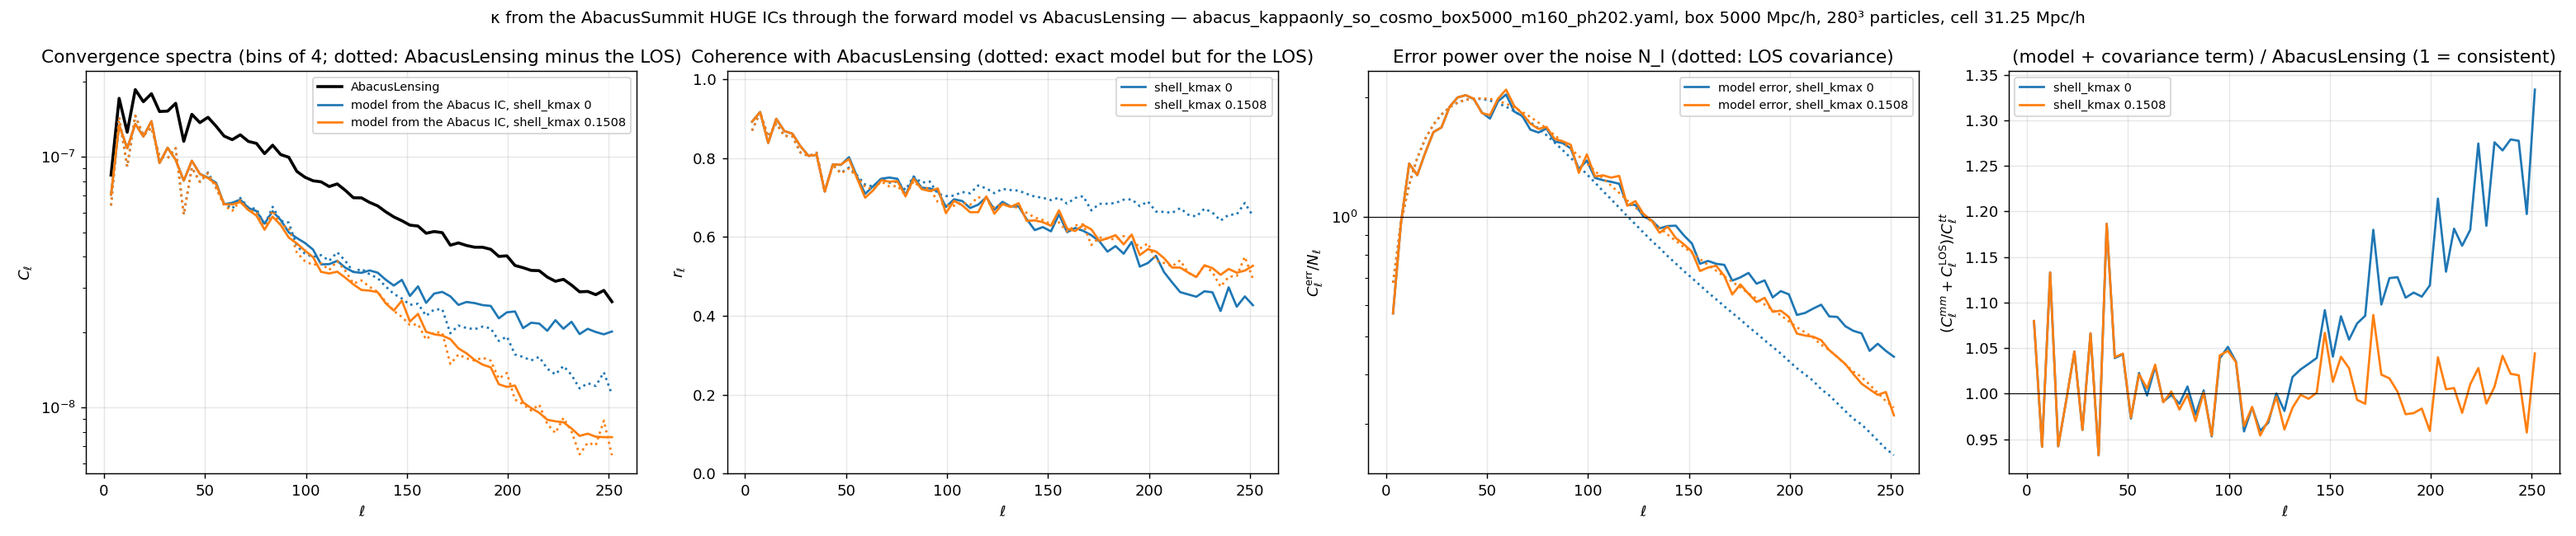
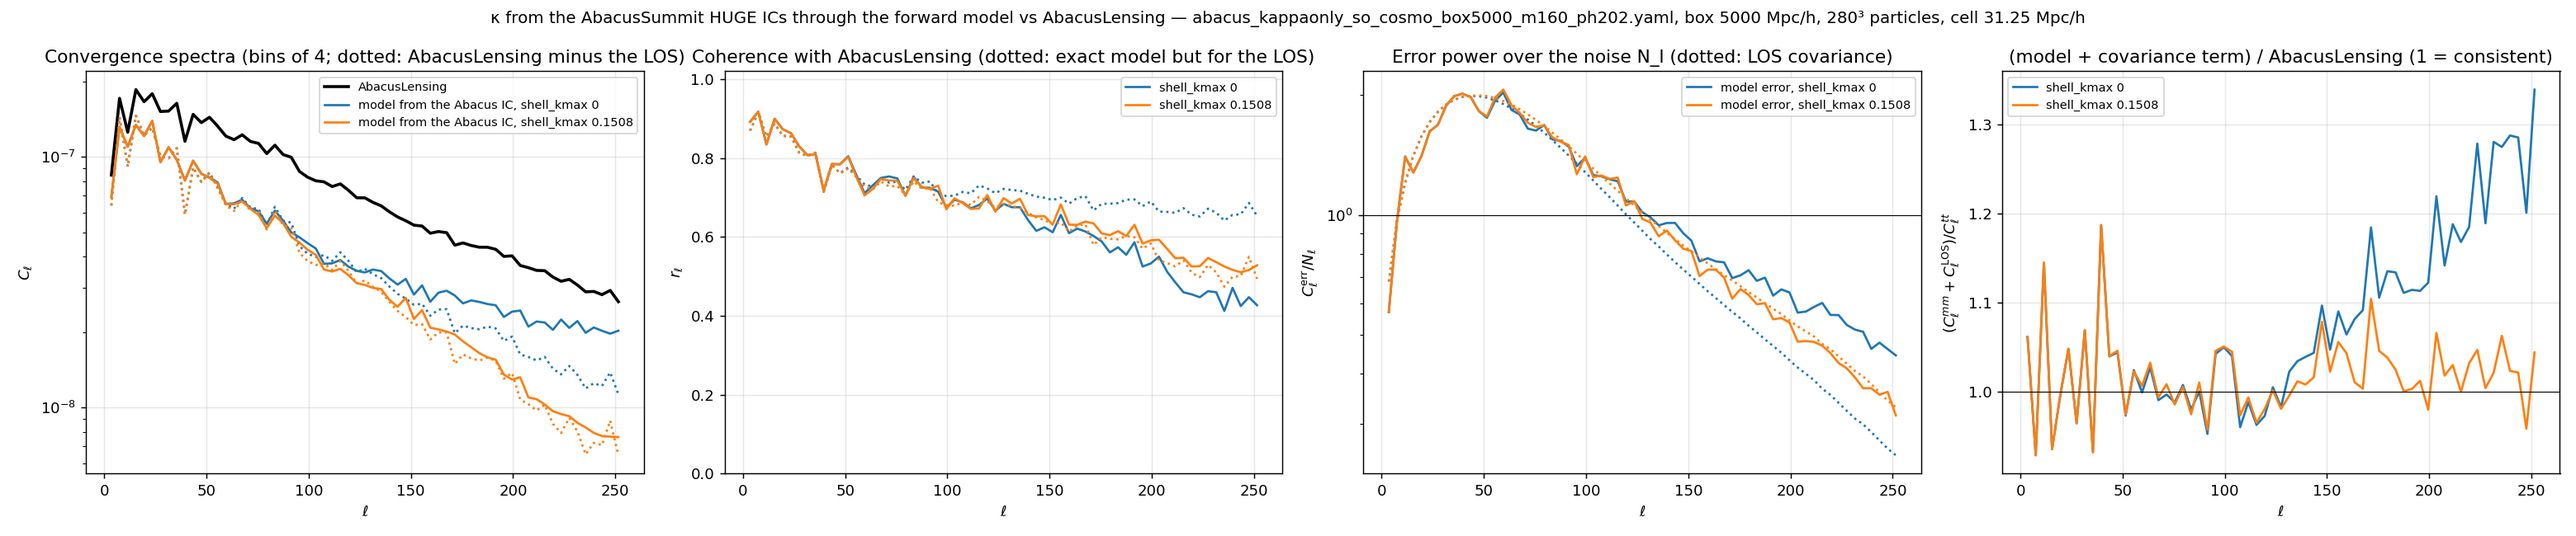
One kappa true-IC figure with and without the per-shell cut (fig:kappa_from_ic, ph202) replaces fig:shell_cut and plot_shell_cut.py; joint true-IC test redrawn with the shell gains: both spectra and the ratio, with the galaxies on the likelihood's grid; GAIN_ROW_TOL stated as in the code, 1e-3 (pipe

diff --git a/docs/pipeline.md b/docs/pipeline.md
@@ -803,7 +803,7 @@ model's *total* κ (one gain per multipole, `1 + C^BM/C^MM`, the former mean) mu
 alike, those held whole too; κ alone does not see the difference, but in the joint the galaxies fix
 the matter of their shells, which that gain amplified by β_ℓ ≈ 1–4 %, and C_κg of the joint mean was
 over-predicted by as much (§7.19). The mean is built where the cut already transforms the shells
-(`cut_shells`): the shells that are cut or carry a gain (`GAIN_ROW_TOL` 10⁻² at the fiducial,
+(`cut_shells`): the shells that are cut or carry a gain (`GAIN_ROW_TOL` 10⁻³ at the fiducial,
 `model.cmb_gain_rows`) are transformed once (`map2alm`, `iter=0`); `kappa_pred` sums the tapered
 shells, the mean adds `w_s (g_s − 1)` of each, so an uncut shell goes through the round trip by its
 gain only; the gain is 1 above `cmb_lmax`, outside the observable. Both `diagonal` and `pixel_exact`
@@ -1110,7 +1110,6 @@ measures and the conventions that make its output comparable with the model.
 | `validate_kappa_from_ic.py` | the κ model at the true Abacus ICs against the AbacusLensing map, no sampling: the model's mean map (§3.2) against it: per ℓ bin coherence, transfer, amplitude A per band, error power against `N_ℓ` and `C_ℓ^LOS`, the coherence `√(1 − C^LOS/C^tt)` of a model exact but for its covariance term, and `(C^mm + C^LOS)/C^tt` (1 for a consistent model); `--shell_kmax` list, `--maps` for the pole maps (§7.9); the nside-16384 map is read once on a compute node and cached in `data/cache/` | `figures/spectra_diagnostic/kappa_from_abacus_ic_*.{png,npz}`, `figures/maps/` |
 | `validate_galaxy_from_ic.py` | the galaxy model at the true Abacus ICs against the Abacus counts, no sampling, a standard check of every grid: per k band and per shell of χ the coherence r, the transfer P_dm/P_mm and the whitened residual power (d − m)/√(n̄S) off the Nyquist planes of the final grid, against 20 closure draws with the noise law of the Newton JSON (`s_e`, `s_ed`, the likelihood's; mean ± 1σ), so that an exact model with that noise falls in their band; then the biases refitted per shell (`b1_alpha` held), whose χ² gain measures the redshift evolution the bias lacks; and, with no bias fit, the shape of the effective bias against the matter of the same ICs (all biases and `b1_alpha` at 0), b_eff(k)/b_eff(top quarter of k), against the closure's: the transfer depends on where the bias fit lands in the `b1`–`bn2`–`bnpar` degeneracy, the b_eff shape does not (§7.19, ph202). The Nyquist planes are left out of the residual: there the paint chain on the survey geometry lowers the data's noise below the per-cell noise of the closure (§7.19) | `figures/galaxy_ic_test/<config>.{png,json}` |
 | `plot_galaxy_ic_test.py` | the paper's `fig:gxy_ic` from the JSONs of `validate_galaxy_from_ic.py` (all cells) and of the Newton minimum (its noise fit): transfer, whitened residual (off the Nyquist planes), b_eff shape against k with the closure band (model + fitted noise), k_N marked | `figures/galaxy_ic_test/fig_gxy_ic.png` |
-| `plot_shell_cut.py` | the paper's `fig:shell_cut` from the `.npz` of `validate_kappa_from_ic.py --shell_kmax 0 <cut>`: the model's κ power plus its covariance term over the map's, with and without the per-shell cut | `figures/spectra_diagnostic/fig_shell_cut.png` (from `kappa_from_abacus_ic_box5000_m160_ph202_cut_nocut.npz`) |
 | `validate_joint_from_ic.py` | the joint model at the true Abacus ICs (Abacus cosmology, the biases of a Newton or profile JSON): C_κg of the AbacusLensing map × LRG catalogue over C_κg of the model's mean κ × model galaxies per ℓ band, cosmic variance cancelling, Gaussian errors with the κ and galaxy errors independent of the model; the mixed crosses (model κ × Abacus galaxies, Abacus κ × model galaxies) say on which side a departure sits. Its galaxy maps are projected from the galaxies at every k, beyond the cube the likelihood holds: above ℓ ≈ 160 that ratio reads the per-shell cut, not the likelihood; the figure (the paper's `fig:joint_ic`) shows both spectra and the ratio, also with the final-grid count meshes projected along each ray, the galaxies the likelihood holds (§7.19) | `figures/joint_ic_test/<config>.{png,json}` |
 | `kappa_stiffness.py` | largest Hessian eigenvalue of −log p in the field (power iteration on reverse-over-reverse Hessian-vector products), its eigenvector's share near the observer, cost and peak memory, per `shell_weights:shell_kmax[:noise]` variant; the MCLMC step size is capped by it | `figures/conditioning/` |
 | `kappa_lattice_template.py` | `measure`: E_z[κ] by antithetic pairs `(κ(z) + κ(−z))/2` on an (`Omega_m`, `sigma8`) list, packed like the likelihood, with the field power, the undisplaced-lattice κ, `N_ℓ` and the out-of-model term at each point's cosmology; `analyse`: S/N, projection of a run's data, Gaussian posterior with and without the template, of the run's data or `RUN:noiseless` (its noiseless map averaged over the noise), `--condition_om` for `sigma8` at given `Omega_m` (§7.15, §7.17) | `data/cache/template/`, `figures/kappa_lattice_template/` |
@@ -2776,8 +2775,10 @@ galaxies' 1.000 and 0.992; the κ transfer 1.006 / 0.980 / 1.008 / 0.997 / 0.994
 1.001 / 0.998 (ph201) over ℓ 20–40 / 40–70 / 70–110 / 110–160 / 160–257, the coherence unchanged; the part of the
 matter left out that the shells explain, c·C_MB, is 0.7 / 1.4 / 2.8 / 2.3 % of C^BB in ℓ 2–64 / 65–128 / 129–192 /
 193–256. κ alone at the true ICs, mesh 160, with the shell gains (`validate_kappa_from_ic.py`,
-`figures/spectra_diagnostic/kappa_from_abacus_ic_box5000_m160{,_ph202}_gain.{png,npz}`, replacing those of the single
-gain): A 1.003 ± 0.015 / 0.996 ± 0.012 / 1.002 ± 0.013 / 0.990 ± 0.017 (ph201) and 0.988 / 1.008 / 0.989 / 0.998
+`figures/spectra_diagnostic/kappa_from_abacus_ic_box5000_m160_gain.{png,npz}` for ph201 and
+`kappa_from_abacus_ic_box5000_m160_ph202_cut_nocut.{png,npz}` for ph202 with and without the cut, the paper's
+`fig:kappa_from_ic`; without the cut A 0.989 / 0.982 / 0.814 / 0.579, the coherence below its curve and the error
+power above `C^LOS` from ℓ ≈ 150, (C^mm + C^LOS)/C^tt up to 1.3 at ℓ ≈ 250): A 1.003 ± 0.015 / 0.996 ± 0.012 / 1.002 ± 0.013 / 0.990 ± 0.017 (ph201) and 0.988 / 1.008 / 0.989 / 0.998
 (ph202) in ℓ 2–64 / 65–128 / 129–192 / 193–256, within 0.005 of the single gain's, the coherence and the error power
 on their curves.
 
@@ -3173,8 +3174,9 @@ spectra (05, `quick_pk_spectra.py`), the angular spectra (05, `quick_cl_spectra.
 seed 77), the maps (04, `plot_2D_maps.py`), the Fisher contours (06, `fisher_cosmo.py --b1_alpha`), the
 lensing fraction (`plot_lensing_fraction.py`), the two-point comparison (§7.20: `fig:twopt` 06 and
 `fig:twopt_abacus` 05, `plot_twopt_overlay.py`; `fig:twopt_cl` 05, C. Payerne's figures in `figures/twopt_payerne/`).
-With no file yet: `fig:shell_cut` (02: the model's κ power at 280³ / nside 128 with and without the per-shell cut,
-`validate_kappa_from_ic.py`), `fig:lattice` (02: the lattice template and its S/N against the particle spacing, from
+The κ IC test with and without the per-shell cut is one figure (`fig:kappa_from_ic`, 05, cited from 02 for the
+cut; `validate_kappa_from_ic.py --shell_kmax 0 0.1508`), and the joint IC test `fig:joint_ic` (05,
+`validate_joint_from_ic.py`). With no file yet: `fig:lattice` (02: the lattice template and its S/N against the particle spacing, from
 `figures/kappa_lattice_template/`), `fig:tents` (02, a schematic),
 `fig:cosmo` (06: the triangle of `compare_runs.py` with the Fisher ellipses of `fisher_cosmo.py` overlaid, to add); `fig:noise` (03) lacks the signal and `C_ℓ^out`;
 `docs/figures/fli_architecture.png` (02) lacks the out-of-model term and the per-shell cut. Records,
